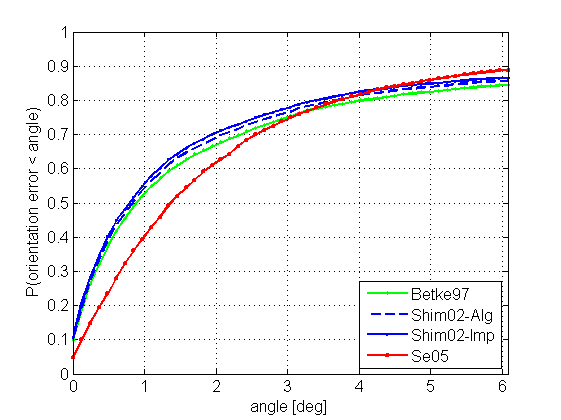
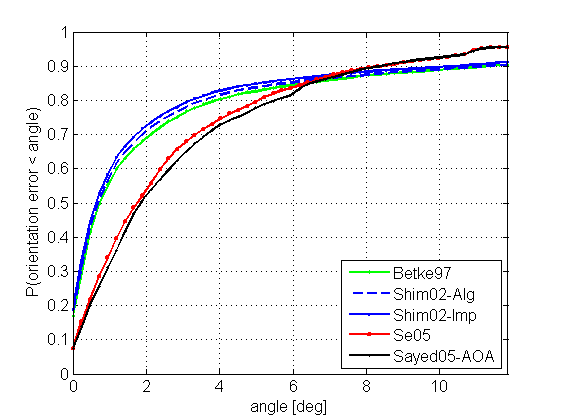
Perform experiments again (due to a new algorithm)

diff --git a/run_eval_random.m b/run_eval_random.m
@@ -16,16 +16,17 @@ config.fixN      = 4;                       % The number of landmarks for locali
 config.varNoise  = 0:0.1:1;                 % Range of std. of noise
 config.varN      = [2, 3, 4, 5, 8, 16, 32, 64, 128]; % Range of the number of landmarks for localization
 config.algorithm = ...                      % Description of localization algorithms
-{                                                                                                         ...
-  % #, Dim, Name,           Local. Function,      Observation Function,     Min. N, Valid,    Line Sytle; ...
-    1,  2,  'Sayed05-TOA2D',@localize2d_sayed05_toa,@observe_distance,           3, [1 1 0 0 0 0], 'kx-'; ...
-    2,  2,  'Betke97',      @localize2d_betke97,    @observe_bearing,            3, [1 1 0 0 0 1], 'gd-'; ...
-    3,  2,  'Shim02-Alg',   @localize2d_shimshoni02_algebraic, @observe_bearing, 3, [1 1 0 0 0 1], 'b--'; ...
-    4,  2,  'Shim02-Imp',   @localize2d_shimshoni02_improved,  @observe_bearing, 3, [1 1 0 0 0 1], 'b+-'; ...
-    5,  2,  'Se05',         @localize2d_se05,       @observe_displacement,       2, [1 1 0 0 0 1], 'rs-'; ...
-    6,  2,  'Sayed05-AOA',  @localize2d_sayed05_aoa,@observe_displacement,       2, [1 1 0 0 0 1], 'ks-'; ...
-    7,  3,  'Sayed05-TOA3D',@localize3d_sayed05_toa,@observe_distance,           4, [1 1 1 0 0 0], 'ko-'; ...
-    8,  3,  'Thomas05',     @localize3d_thomas05,   @observe_distance,           3, [1 1 1 0 0 0], 'm+-'; ...
+{                                                                                                           ...
+  % #, Dim, Name,           Local. Function,            Observation Function, Min. N, Valid,    Line Sytle; ...
+    1,  2,  'Sayed05-TOA2D',@localize2d_sayed05_toa,    @observe_distance,         3, [1 1 0 0 0 0], 'kx:'; ...
+    2,  2,  'Sayed05-TDOA', @localize2d_sayed05_tdoa,   @observe_distance_relative,3, [1 1 0 0 0 0], 'k--'; ...
+    3,  2,  'Betke97',      @localize2d_betke97,        @observe_bearing,          3, [1 1 0 0 0 1], 'gd-'; ...
+    4,  2,  'Shim02-Alg',   @localize2d_shimshoni02_algebraic, @observe_bearing,   3, [1 1 0 0 0 1], 'b--'; ...
+    5,  2,  'Shim02-Imp',   @localize2d_shimshoni02_improved,  @observe_bearing,   3, [1 1 0 0 0 1], 'b+-'; ...
+    6,  2,  'Se05',         @localize2d_se05,           @observe_displacement,     2, [1 1 0 0 0 1], 'rs-'; ...
+    7,  2,  'Sayed05-AOA',  @localize2d_sayed05_aoa,    @observe_displacement,     2, [1 1 0 0 0 1], 'ko-'; ...
+    8,  3,  'Sayed05-TOA3D',@localize3d_sayed05_toa,    @observe_distance,         4, [1 1 1 0 0 0], 'kx:'; ...
+    9,  3,  'Thomas05',     @localize3d_thomas05,       @observe_distance,         3, [1 1 1 0 0 0], 'm+-'; ...
 };
 config.verbose   = true;                    % Show progress of experiments (true or false)
 config.warning   = 'off';                   % Show warning during experiments ('on' or 'off')

diff --git a/run_eval_mrclam.m b/run_eval_mrclam.m
@@ -18,16 +18,16 @@ config.dataFile = ... % A list of data files
 };
 config.pose = [];
 config.algorithm = ... % Description of localization algorithms
-{                                                                                                         ...
-  % #, Dim, Name,           Local. Function,      Observation Function,     Min. N, Valid,    Line Sytle; ...
-    1,  2,  'Sayed05-TOA2D',@localize2d_sayed05_toa,@observe_distance,           3, [1 1 0 0 0 0], 'kx-'; ...
-    2,  2,  'Betke97',      @localize2d_betke97,    @observe_bearing,            3, [1 1 0 0 0 1], 'gd-'; ...
-    3,  2,  'Shim02-Alg',   @localize2d_shimshoni02_algebraic, @observe_bearing, 3, [1 1 0 0 0 1], 'b--'; ...
-    4,  2,  'Shim02-Imp',   @localize2d_shimshoni02_improved,  @observe_bearing, 3, [1 1 0 0 0 1], 'b+-'; ...
-    5,  2,  'Se05',         @localize2d_se05,       @observe_displacement,       2, [1 1 0 0 0 1], 'rs-'; ...
-    6,  2,  'Sayed05-AOA',  @localize2d_sayed05_aoa,@observe_displacement,       2, [1 1 0 0 0 1], 'ks-'; ...
+{                                                                                                           ...
+  % #, Dim, Name,           Local. Function,            Observation Function, Min. N, Valid,    Line Sytle; ...
+    1,  2,  'Sayed05-TOA2D',@localize2d_sayed05_toa,    @observe_distance,         3, [1 1 0 0 0 0], 'kx:'; ...
+    2,  2,  'Sayed05-TDOA', @localize2d_sayed05_tdoa,   @observe_distance_relative,3, [1 1 0 0 0 0], 'k--'; ...
+    3,  2,  'Betke97',      @localize2d_betke97,        @observe_bearing,          3, [1 1 0 0 0 1], 'gd-'; ...
+    4,  2,  'Shim02-Alg',   @localize2d_shimshoni02_algebraic, @observe_bearing,   3, [1 1 0 0 0 1], 'b--'; ...
+    5,  2,  'Shim02-Imp',   @localize2d_shimshoni02_improved,  @observe_bearing,   3, [1 1 0 0 0 1], 'b+-'; ...
+    6,  2,  'Se05',         @localize2d_se05,           @observe_displacement,     2, [1 1 0 0 0 1], 'rs-'; ...
+    7,  2,  'Sayed05-AOA',  @localize2d_sayed05_aoa,    @observe_displacement,     2, [1 1 0 0 0 1], 'ko-'; ...
 };
-
 config.matFile = 'run_eval_mrclam.mat';
 
 criteria.name = {'Position Error [m]', 'Orientation Error [deg]', ...
@@ -64,6 +64,9 @@ for d = 1:size(config.dataFile,1)
             % 2. Rearrange measurements for each algorithm
             if isequal(obsFuncName{m}, 'observe_distance')
                 obsData = measure(:,2);
+            elseif isequal(obsFuncName{m}, 'observe_distance_relative')
+                obsData = measure(:,2);
+                obsData(2:end) = obsData(2:end) - obsData(1);
             elseif isequal(obsFuncName{m}, 'observe_bearing')
                 obsData = [measure(:,3), zeros(size(measure,1),1)];
             elseif isequal(obsFuncName{m}, 'observe_displacement')

diff --git a/run_eval_roh.m b/run_eval_roh.m
@@ -30,11 +30,11 @@ config.pose = ... % A list of ground truth
     4.51, 4.47, 0, 0, 0, tran_deg2rad(90.5); ...
 ];
 config.algorithm = ... % Description of localization algorithms
-{                                                                                                         ...
-  % #, Dim, Name,           Local. Function,      Observation Function,     Min. N, Valid,    Line Sytle; ...
-    1,  2,  'Betke97',      @localize2d_betke97,    @observe_bearing,            3, [1 1 0 0 0 1], 'gd-'; ...
-    2,  2,  'Shim02-Alg',   @localize2d_shimshoni02_algebraic, @observe_bearing, 3, [1 1 0 0 0 1], 'b--'; ...
-    3,  2,  'Shim02-Imp',   @localize2d_shimshoni02_improved,  @observe_bearing, 3, [1 1 0 0 0 1], 'b+-'; ...
+{                                                                                                           ...
+  % #, Dim, Name,           Local. Function,         Observation Function,    Min. N, Valid,    Line Sytle; ...
+    1,  2,  'Betke97',      @localize2d_betke97,        @observe_bearing,          3, [1 1 0 0 0 1], 'gd-'; ...
+    2,  2,  'Shim02-Alg',   @localize2d_shimshoni02_algebraic, @observe_bearing,   3, [1 1 0 0 0 1], 'b--'; ...
+    3,  2,  'Shim02-Imp',   @localize2d_shimshoni02_improved,  @observe_bearing,   3, [1 1 0 0 0 1], 'b+-'; ...
 };
 config.matFile = 'run_eval_roh.mat';
 
